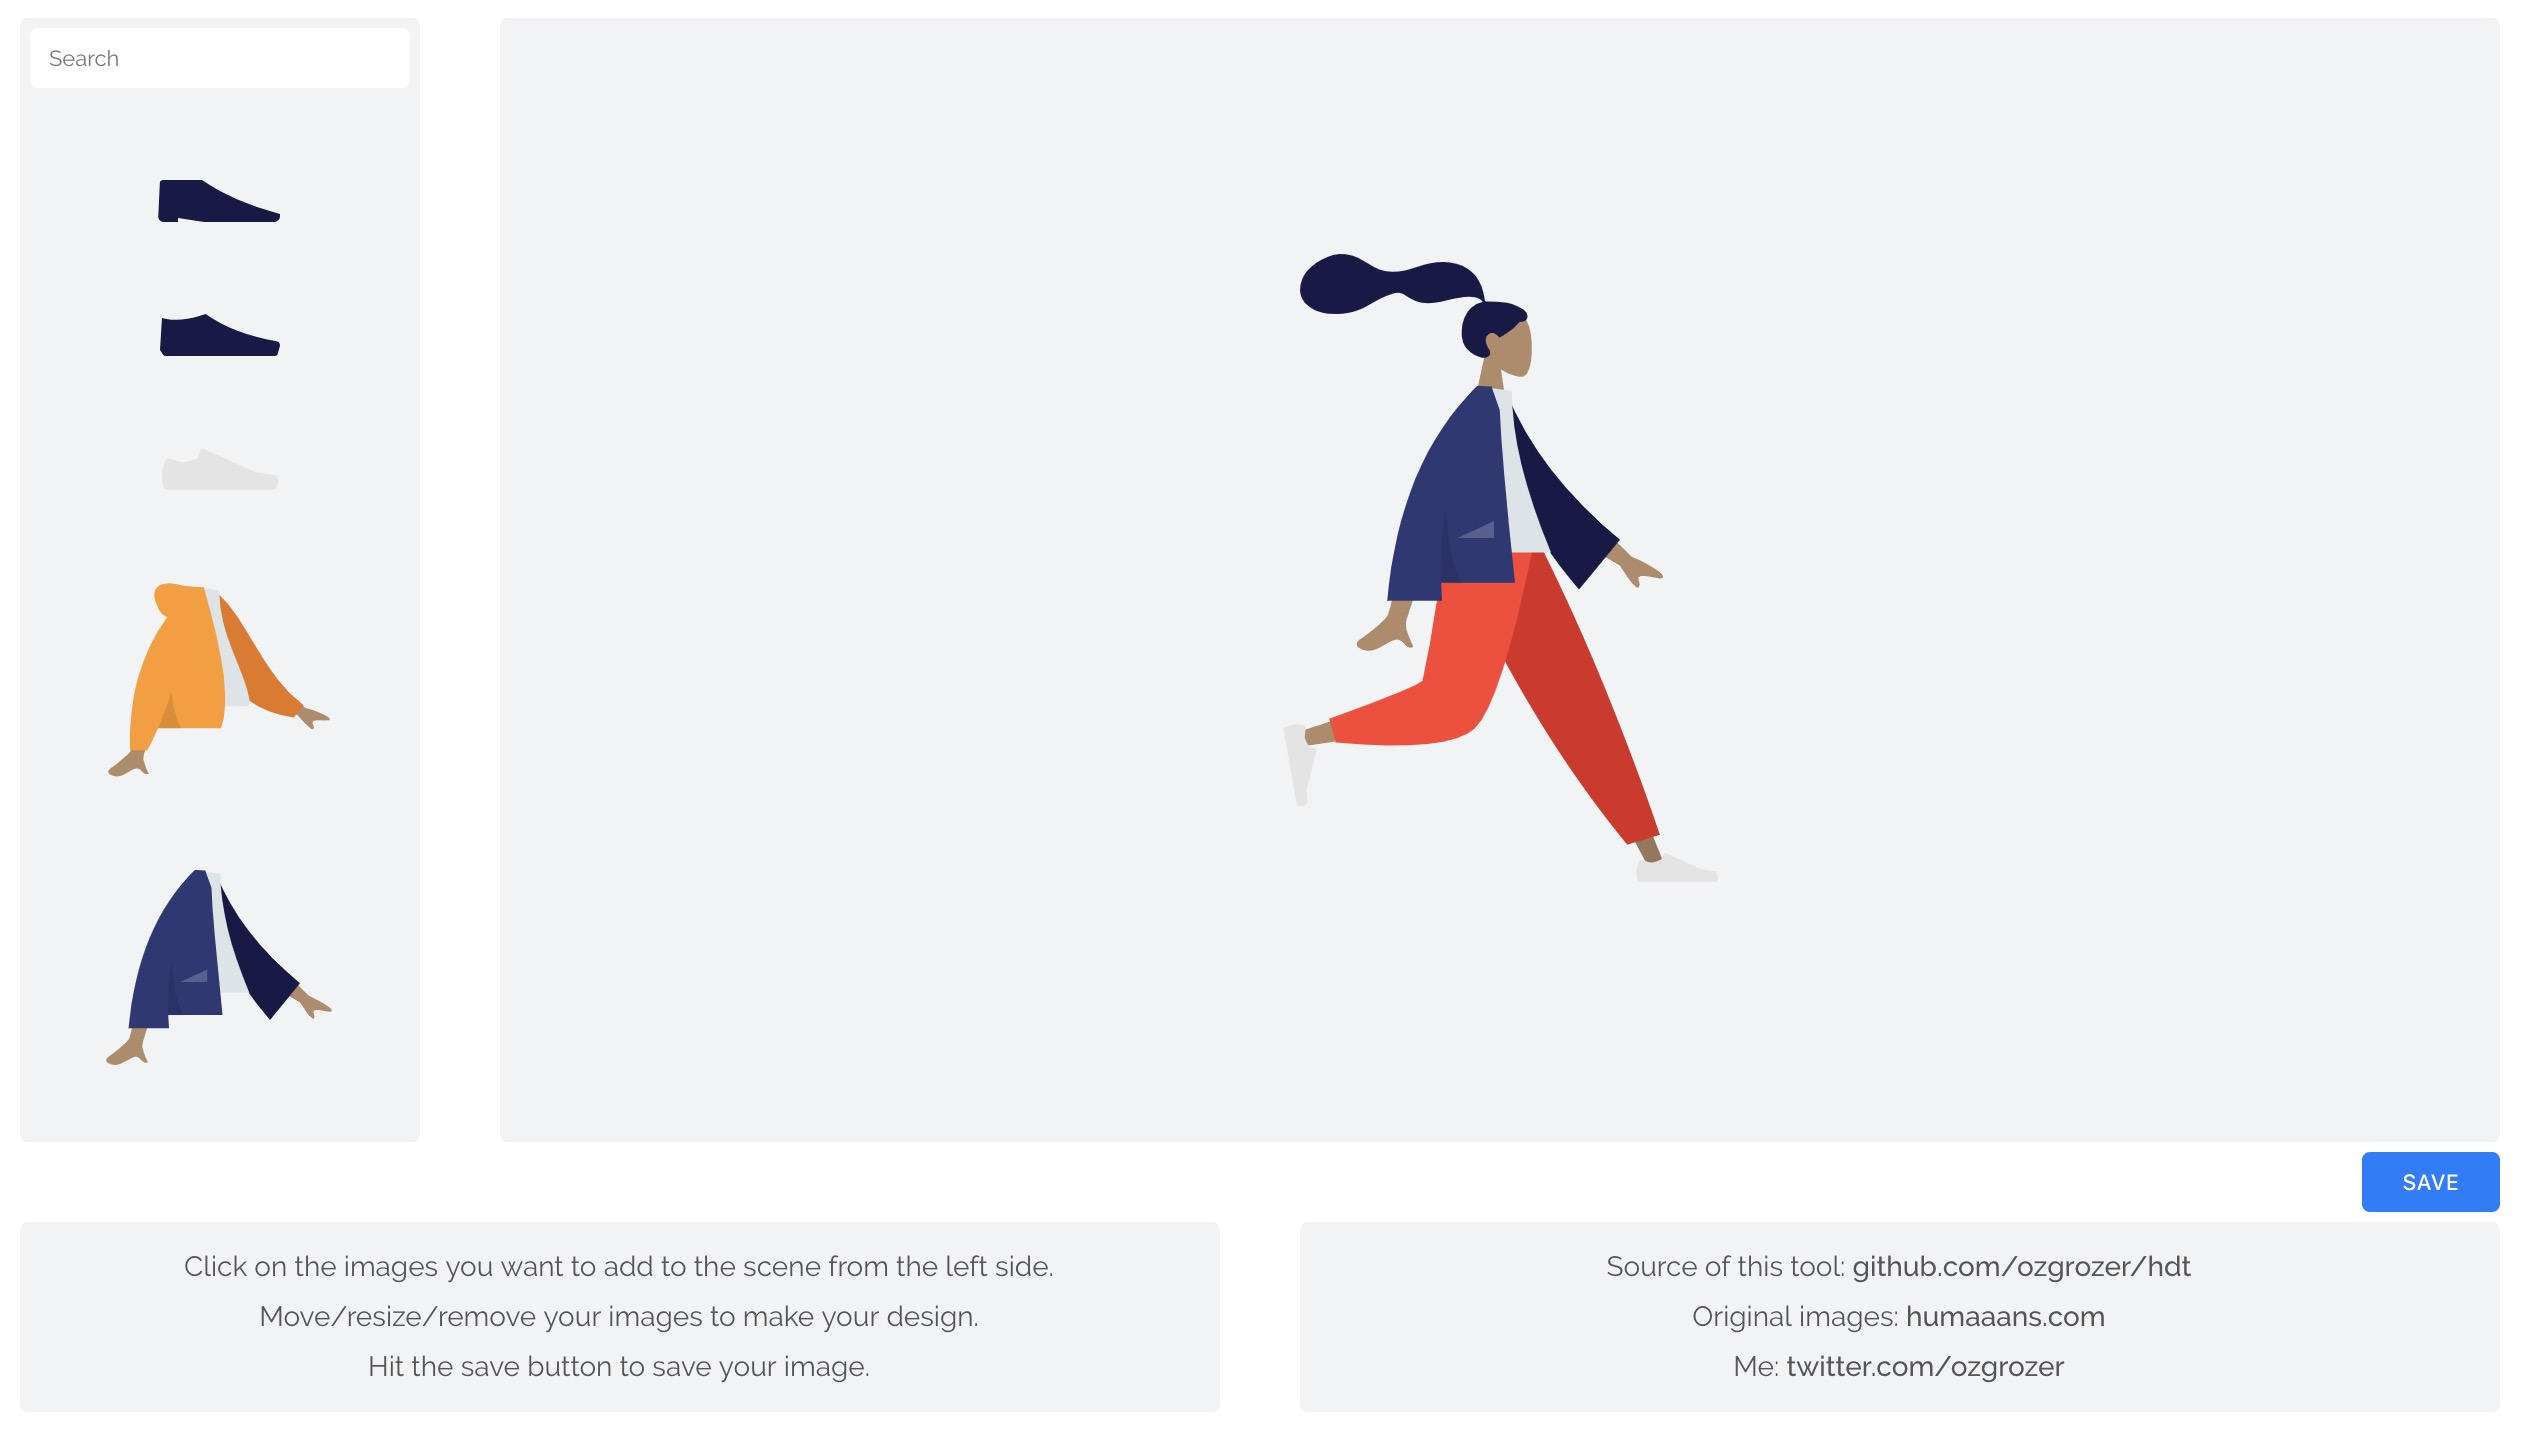
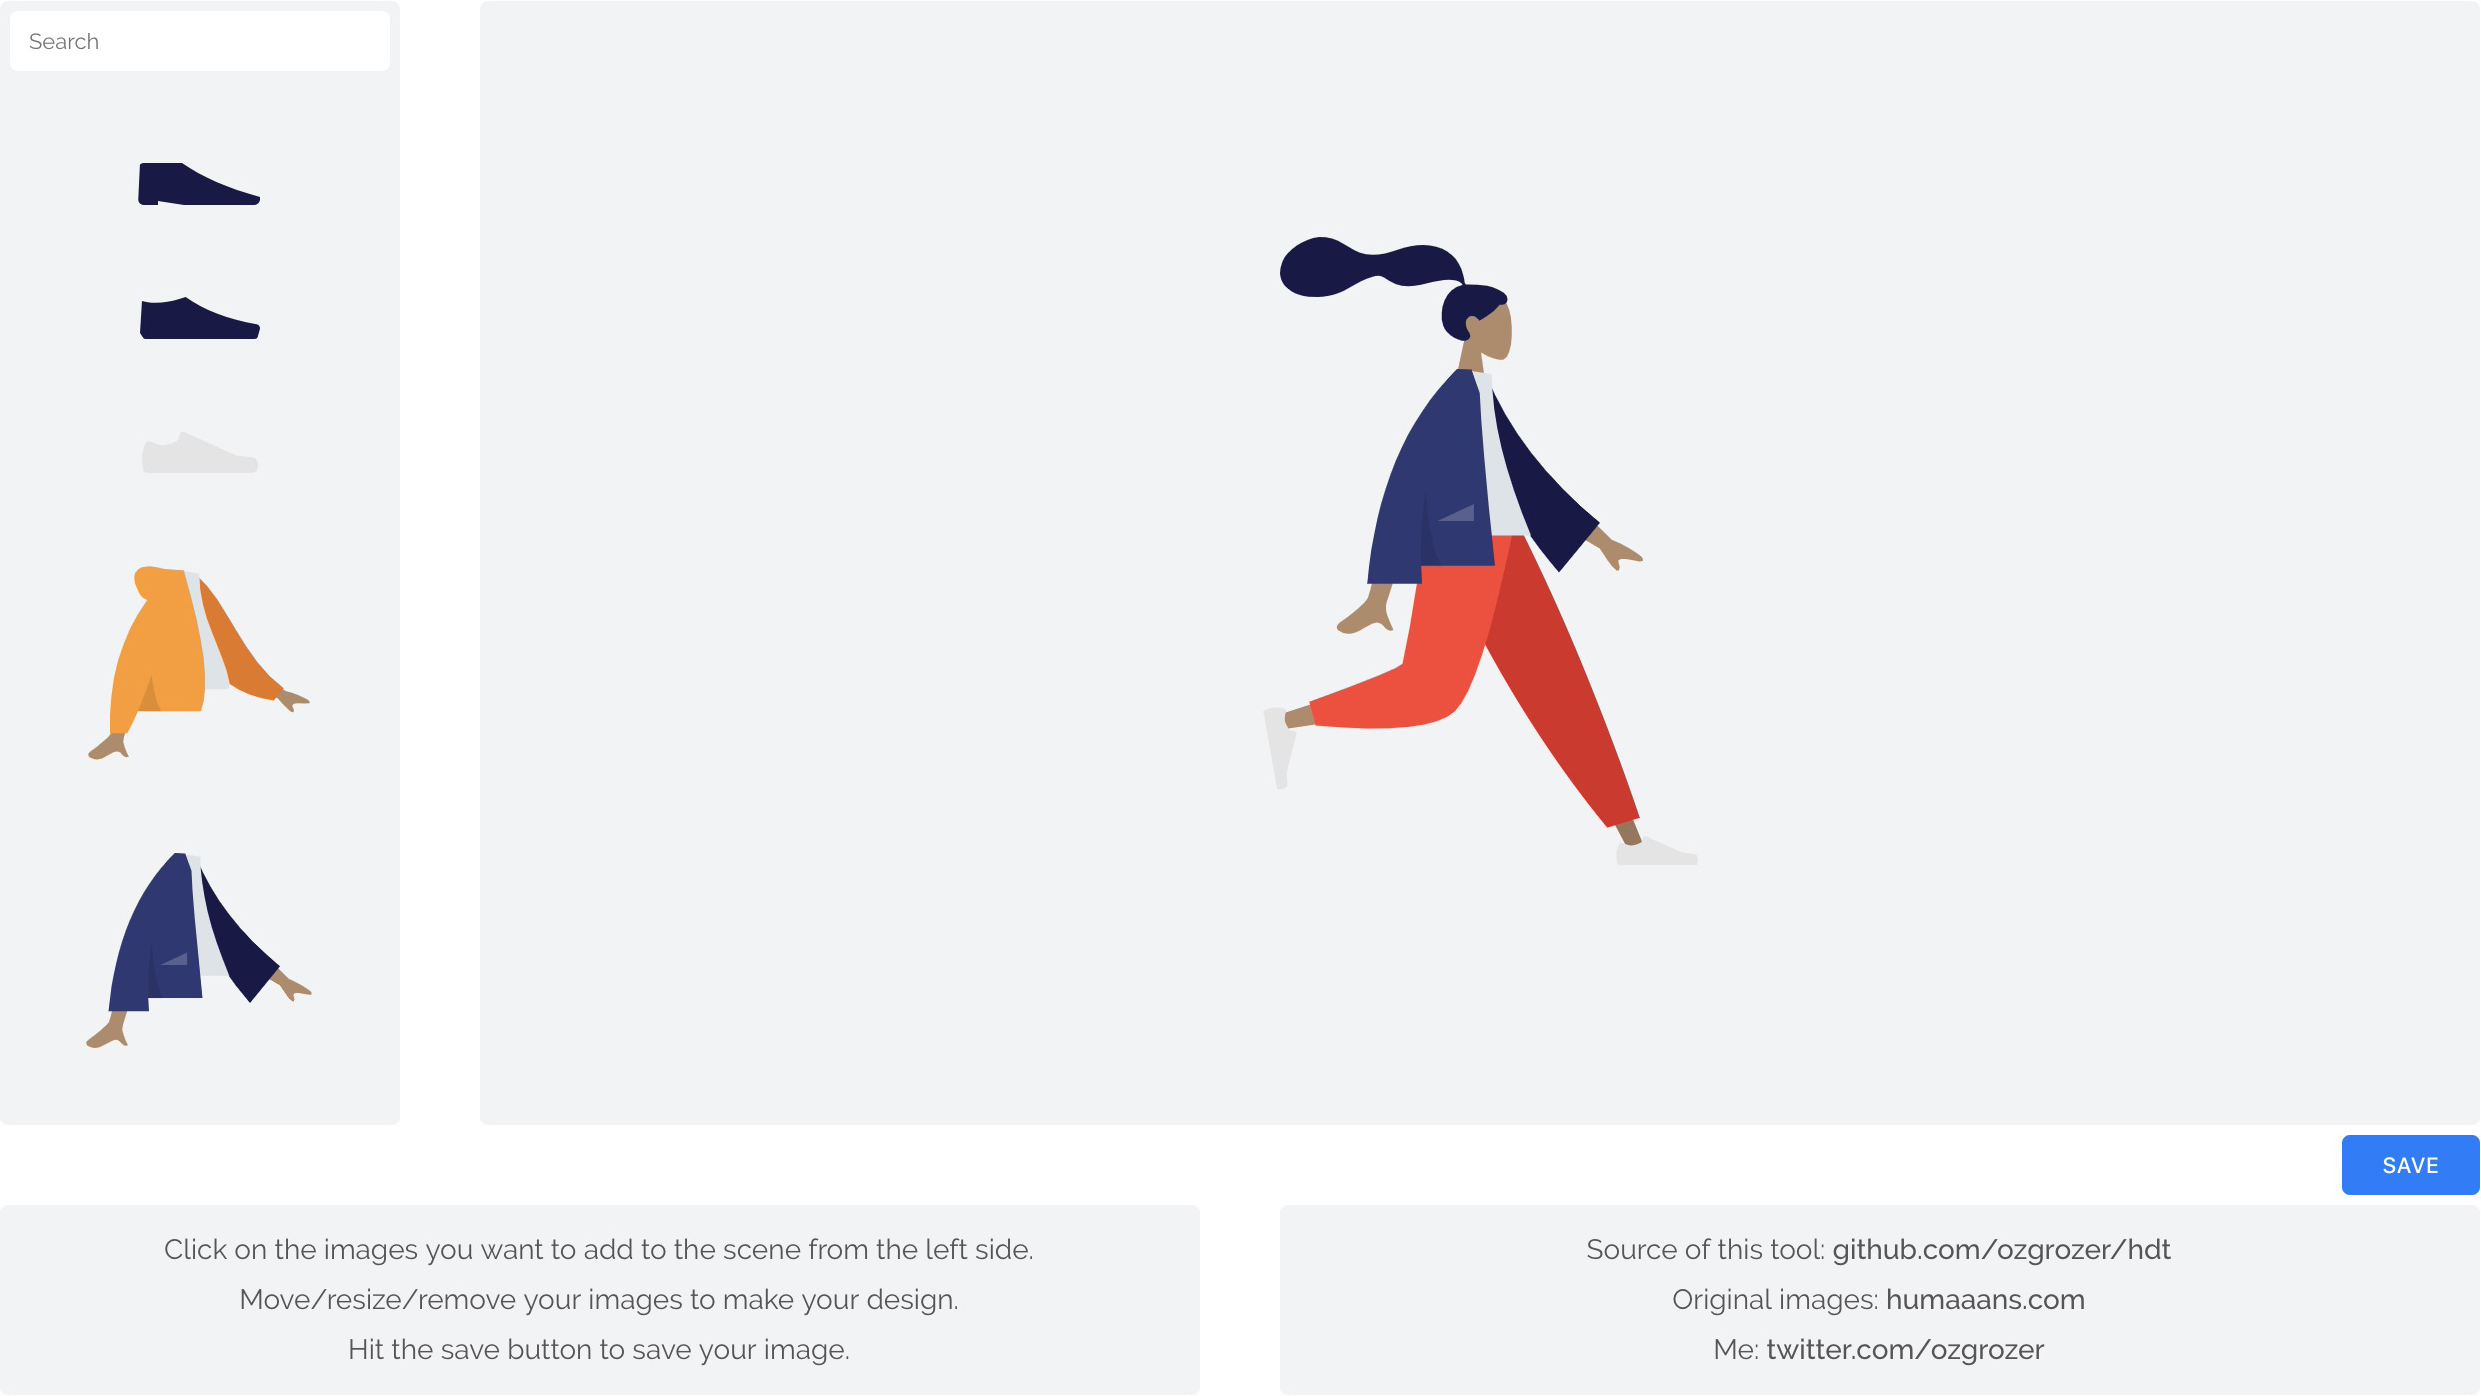
Update preview.

diff --git a/readme.md b/readme.md
@@ -2,7 +2,7 @@
 
 [https://ozgrozer.github.io/hdt/](https://ozgrozer.github.io/hdt/)
 
-![](preview.jpg)
+![](preview.jpg?v=2)
 
 ## License
 
